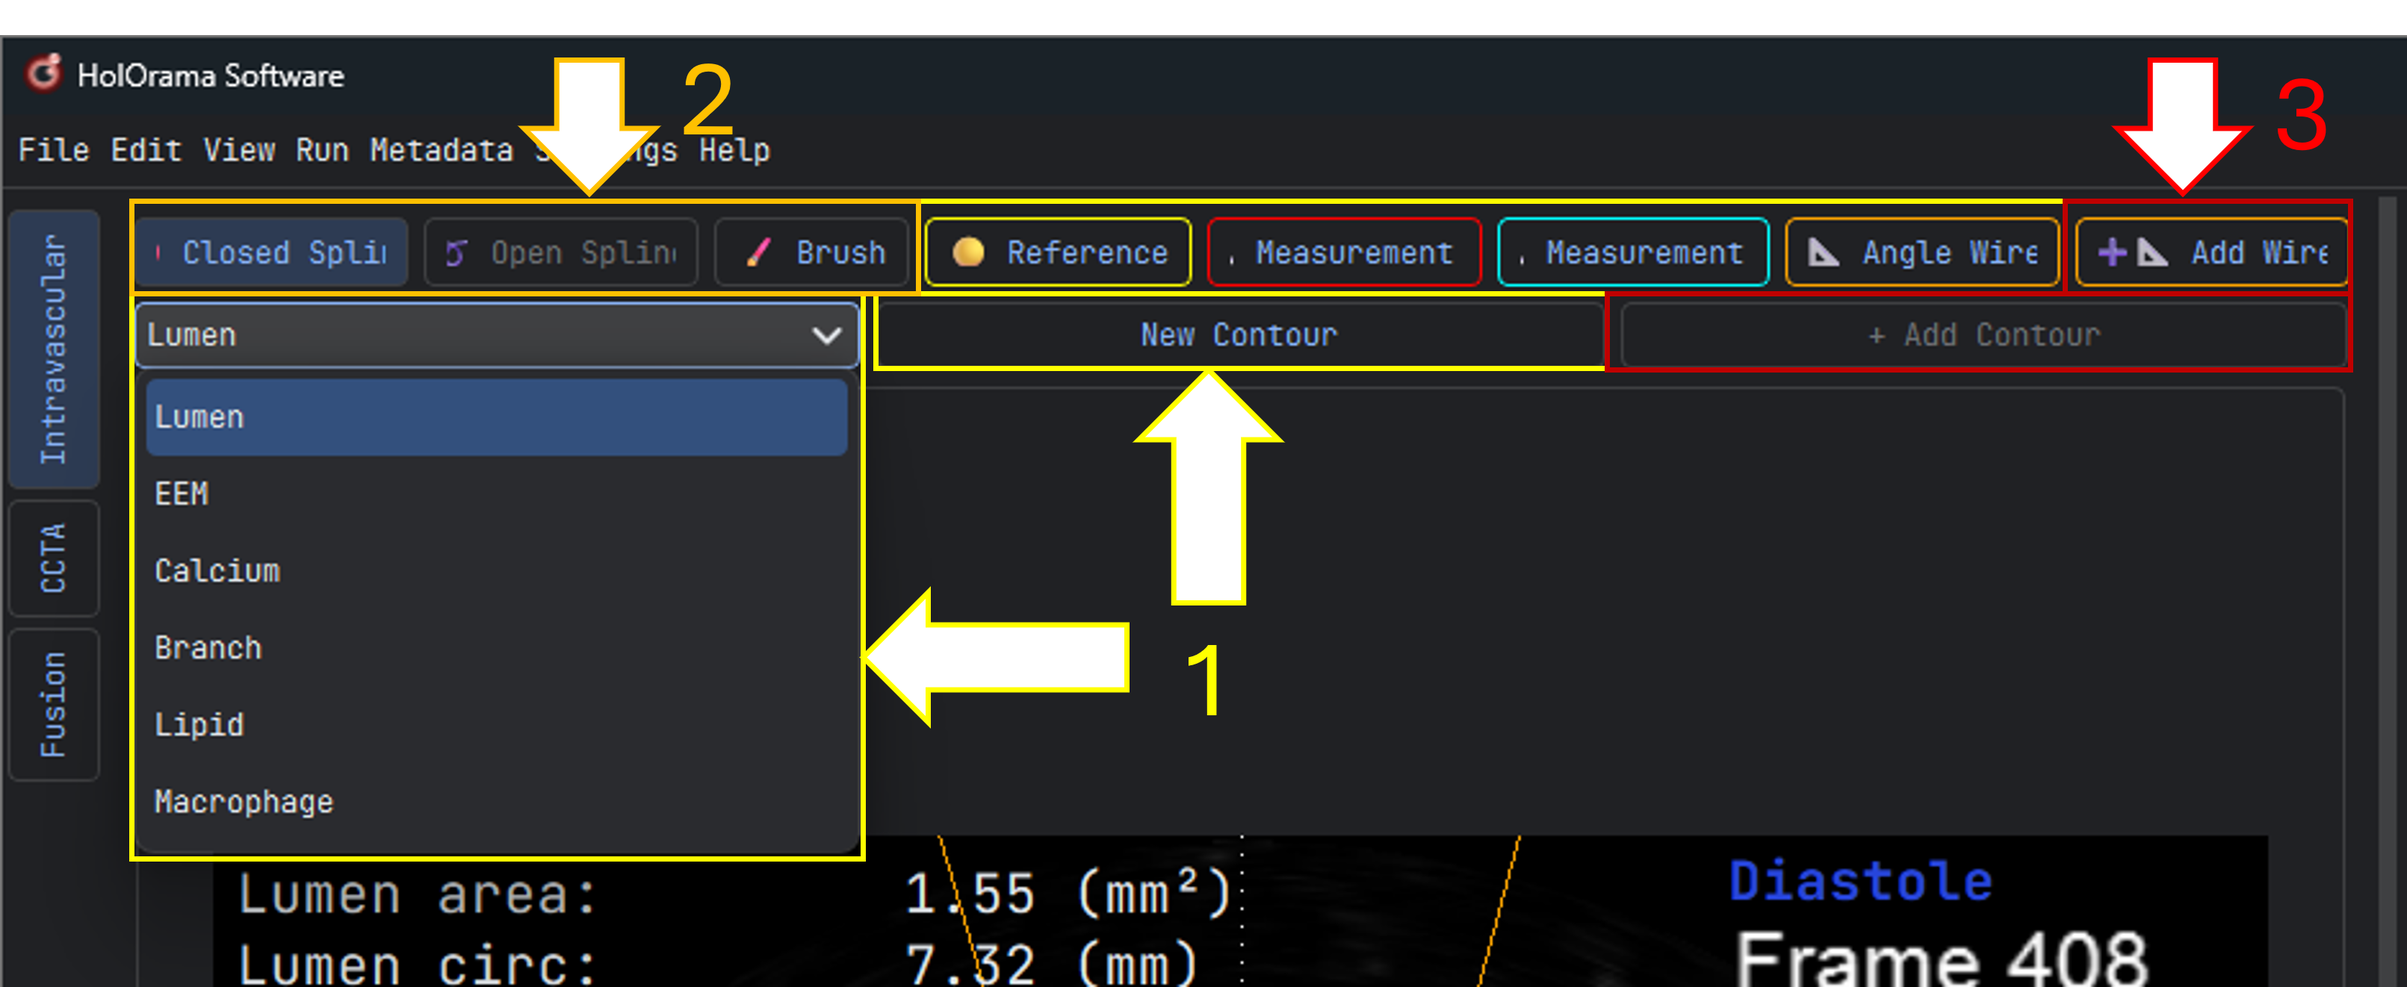
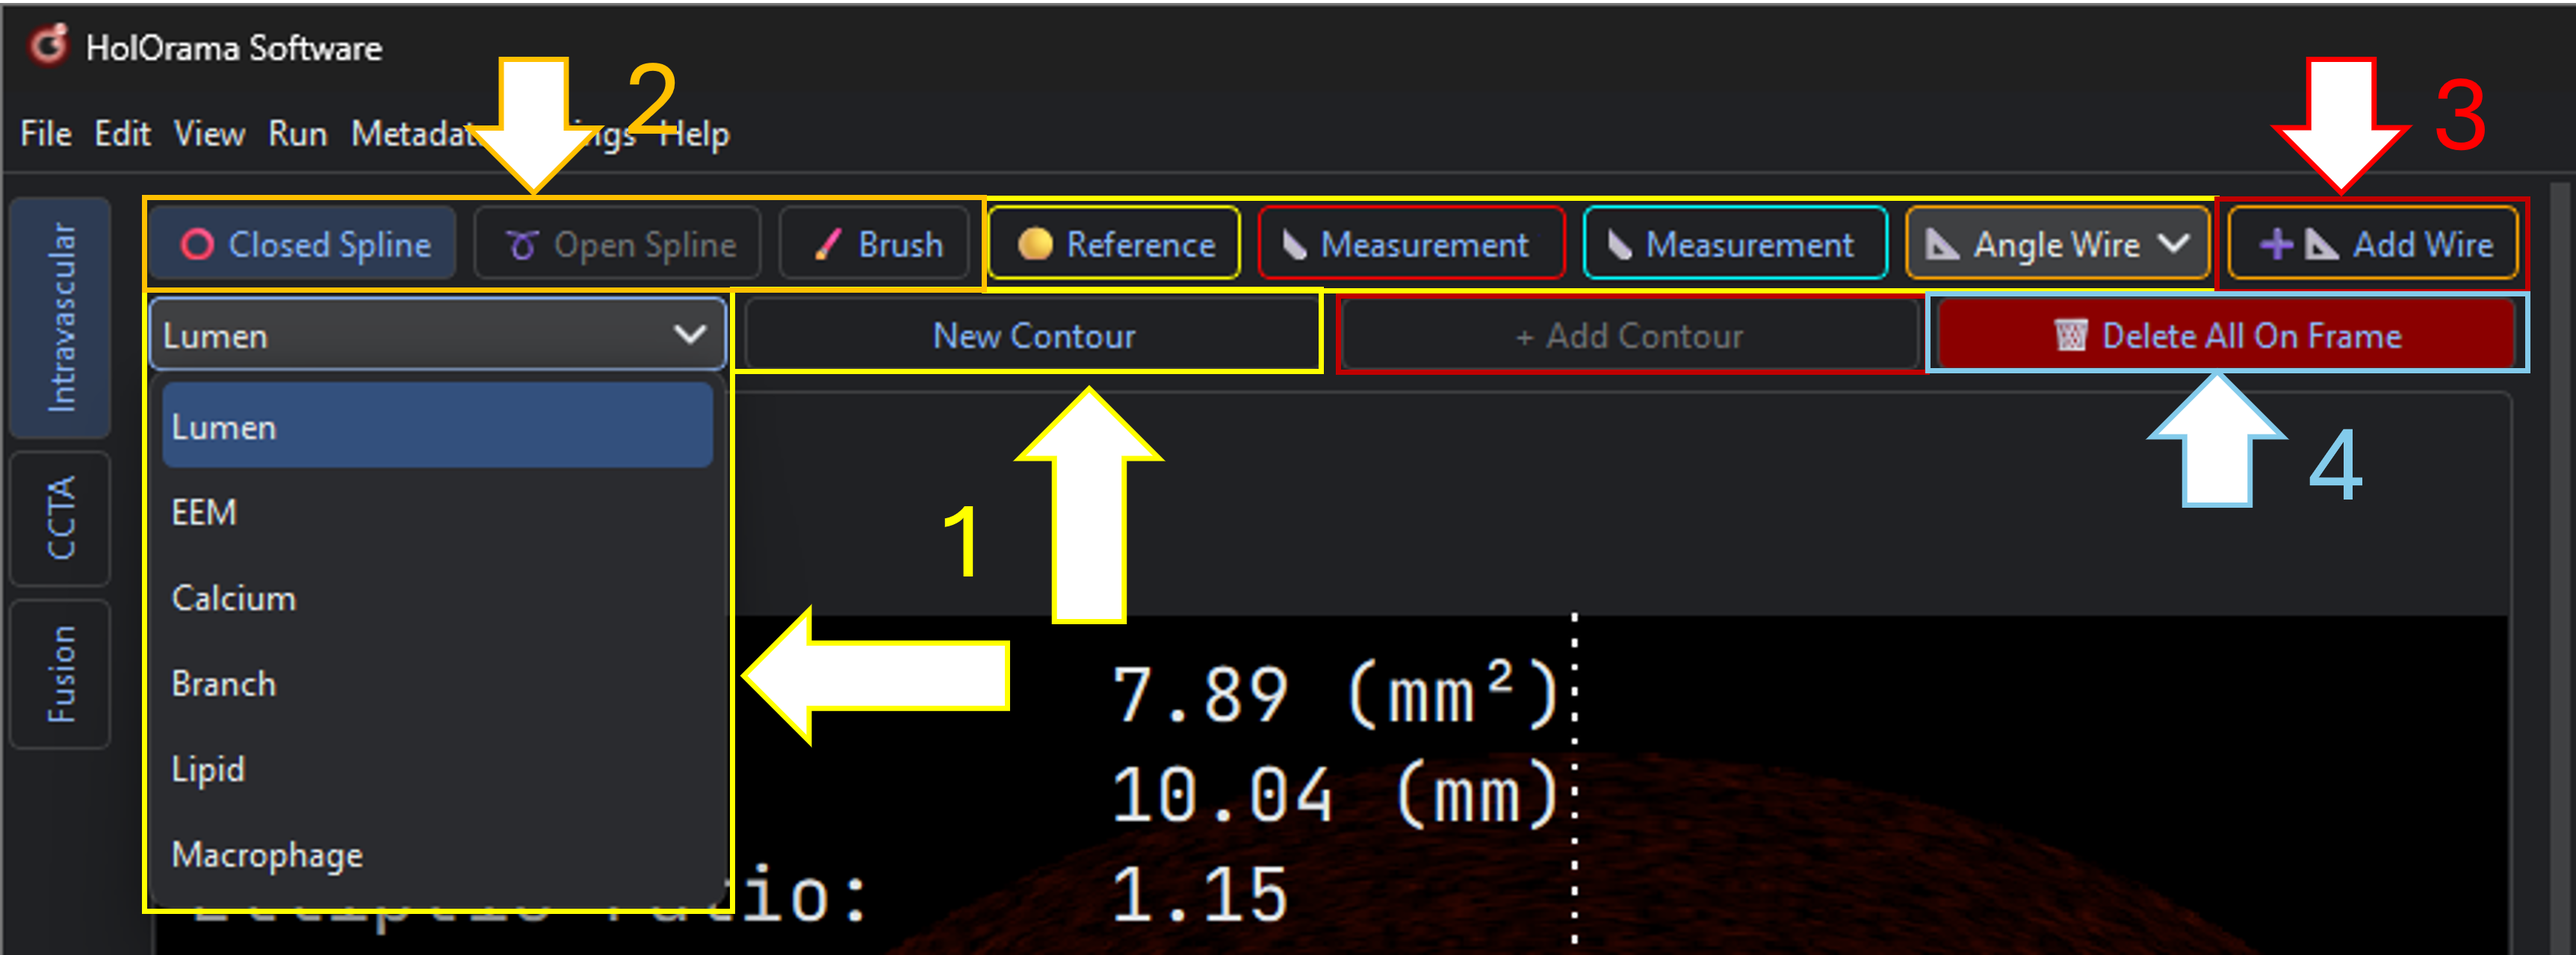
update documentation

diff --git a/docs/contents/modules/intravascular.rst b/docs/contents/modules/intravascular.rst
@@ -82,6 +82,21 @@ The first step should be to only analyze frames of interest. This can either be 
 tagging images in OCT or gating in IVUS; both matter because they let you export only the
 tagged / gated frames as nifti for training.
 
+.. note::
+
+  If you're analyzing an OCT pullback, and there is guiding catheter visible in the proximal
+  vessel, do classification of the catheter first in the following manner:
+
+  .. figure:: ../../media/classifying_guiding_catheter.png
+   :name: fig-guiding-catheter
+   :alt: Identification of guiding catheter
+   :align: center
+   :width: 450px
+
+   Find the first proximal frame, where no guiding catheter is visible, click ``Catheter Range``.
+   This will classify all frames to the right (proximal) as *Guiding Catheter* and additionally
+   block tagging.
+
 **IVUS.** Mark the current frame with the *Diastolic Frame* / *Systolic Frame* checkboxes,
 or let :doc:`gating` find them for you. Gating requires a bit more effort and is covered
 in detail there. Marked frames appear as lines in the longitudinal view (blue = diastole,
@@ -92,8 +107,7 @@ systole and diastole over a range.
 a fixed distance apart (in mm or in frames) within a frame range. The spacing is counted
 out from the **frame on screen**, in both directions — on frame 375 of 380 with a step of
 4 you get 375, 379 and 371, 367, … back down — so the frame being looked at is always one
-of the tagged ones. Rate each frame with the quality
-buttons (*Very Bad* … *Very Good*). The rating travels with the frame into the report.
+of the tagged ones. Rating each frame is a step of its own, covered below.
 A frame labelled **Guiding Catheter** shows the catheter rather than the vessel, so it
 never also carries a tag: labelling one (or a whole **Catheter Range**) drops its tag, and
 both *Tagged Frame* and **Tag Frames by Distance** skip it. Clearing the range makes those
@@ -106,7 +120,7 @@ If a region should be excluded from analysis, after running tagging / gating use
    :name: fig-tagging
    :alt: Overview Intravascular Module
    :align: center
-   :width: 900px
+   :width: 600px
 
    Tagging a pullback after loading a presegmented mask.
 
@@ -138,7 +152,51 @@ models as demonstrated in :ref:`fig-tagging`
    inference settings are in the ``segmentation`` section of ``config.yaml``. 
    The packaged Windows binary does not include inference.
 
-6. Draw contours
+6. Classify frame
+~~~~~~~~~~~~~~~~~
+
+*OCT only.* IVUS pullbacks carry no frame label; they mark diastole and systole instead
+(step 3).
+
+Every frame carries **exactly one** label, picked from the two rows above the schematic:
+the frame labels **Guiding Catheter**, **Unanalyzable** and **Unlabeled**, and the five
+**Frame Quality** ratings *Very Bad*, *Bad*, *Ok*, *Good* and *Very Good*. All eight are
+one choice, so picking any of them replaces whatever the frame carried before — a rating
+clears a flag, a flag clears a rating. The buttons always show the label of the frame on
+screen, and every frame starts out **Unlabeled**.
+
+.. list-table::
+   :header-rows: 1
+   :widths: 30 70
+
+   * - Label
+     - What it says about the frame
+   * - *Very Bad* … *Very Good*
+     - You looked at it, and this is how well its borders can be read. Rating a frame is
+       what records that it was reviewed.
+   * - **Unanalyzable**
+     - You looked at it and it cannot be contoured at all. Where only *part* of the border
+       is uninterpretable, contour it and mark that part as uncertain instead (step 8).
+   * - **Guiding Catheter**
+     - The guiding catheter fills the frame, so there is no vessel in it to analyze.
+   * - **Unlabeled**
+     - Not looked at yet. Every frame starts here, and **Unlabeled** is also how a frame is
+       put back to it.
+
+.. note::
+   Label the guiding-catheter stretch with **Catheter Range** rather than frame by frame:
+   one click labels the frame on screen and every frame proximal to it (see
+   :ref:`fig-guiding-catheter`). **Clear Catheter Range** puts every frame carrying the
+   label back to **Unlabeled** and is greyed out while none does. A guiding-catheter frame
+   cannot be tagged — its *Tagged Frame* checkbox is greyed out and an existing tag is
+   dropped — and the vessel schematic veils the whole stretch in grey.
+
+The label describes the frame rather than the drawing on it: it is saved in
+``<case>_contours_ho_<version>.json`` and comes back when the case is reopened, and
+**Delete All On Frame** leaves it untouched. It is not one of the report's columns; the
+report holds what was measured on each frame.
+
+7. Draw contours
 ~~~~~~~~~~~~~~~~
 
 .. important::
@@ -207,7 +265,9 @@ then click in the image to place points.
 
 .. note::
   To return to a neutral state (no tool, Lumen as active contour), 
-  press :kbd:`Esc`.
+  press :kbd:`Esc`. To delete the currently clicked contour (also works for a single contour,
+  when there are several of the same type), press :kbd:`Delete`. To delete all it's faster to
+  click the Button ``🗑 Delete All On Frame``.
 
 Drawing rules:
 
@@ -251,7 +311,7 @@ See this example for applying these tools to effectively draw new contours:
 
 .. _iv-uncertainty:
 
-7. Express uncertainty
+8. Express uncertainty
 ~~~~~~~~~~~~~~~~~~~~~~
 
 Borders are not equally visible all the way around a vessel. Rather than forcing you to
@@ -296,7 +356,22 @@ Colours of the start/end markers are configurable (``color_start_point``,
    Be consistent about *why* you mark a region uncertain across a study; that consistency
    is what a model can actually learn from.
 
-8. Measurements and markers
+Blood artefacts are common in OCT images, particularly in the ostial regions. In the most severe
+cases, label the frames as *Unanalyzable*. However, if a blood artefact only impairs image quality
+and you want the masks to indicate that it caused the impairment, add one or more angles showing
+where the blood impairs the visibility of structures, as in the example below:
+
+.. figure:: ../../media/blood_artefact.png
+   :name: fig-blood-artefact
+   :alt: Blood artefact
+   :align: center
+   :width: 900px
+
+   Left: Raw image without contours. Right: Contours with open start and end points
+   on the EEM contour, an angle indicating the blood-related impairment in red, and the classification
+   *Ok* for the image.
+
+9. Measurements and markers
 ~~~~~~~~~~~~~~~~~~~~~~~~~~~
 
 - 📏 **Measurement 1** (:kbd:`1`) and **Measurement 2** (:kbd:`2`) each measure a distance
@@ -332,8 +407,8 @@ coronary artery anomalies for fusion with CCTA. Also the reference points should
 set either at the ostium or at bifurcation points. A detailed description of how the input format
 for the fusion module is expected is given in :doc:`fusion`.
 
-9. Review in the longitudinal view
-~~~~~~~~~~~~~~~~~~~~~~~~~~~~~~~~~~
+10. Review in the longitudinal view
+~~~~~~~~~~~~~~~~~~~~~~~~~~~~~~~~~~~
 
 The longitudinal view under the gating plot shows the pullback cut along its axis,
 overlaid with the lumen-area dots, the diastolic/systolic marker lines and the breathing
@@ -348,7 +423,7 @@ EEM diameter, calcification distribution on top and lipid distribution on the bo
 This is a quick way to spot regions of interest, which can then be inspected in the 
 image view and annotated with the contouring tools.
 
-10. Export
+11. Export
 ~~~~~~~~~~
 
 .. list-table::
@@ -363,7 +438,7 @@ image view and annotated with the contouring tools.
    * - **File → Save Report** (:kbd:`Ctrl+R`)
      - Per-frame metrics report, plus the contour CSVs when ``report.save_as_csv`` is on.
        **These CSVs are the Fusion module's intravascular input.**
-   * - **File → Save NIfTis → Contoured / Gated / All Frames**
+   * - **File → Save NIfTis → Contoured / Tagged Gated / All Frames**
      - Image and mask NIfTI files for the chosen frame selection.
    * - **File → Save Gated Images**
      - The gated (or tagged) frames as numpy arrays (.npy).
@@ -376,9 +451,15 @@ See :doc:`../outputs` for the exact file names and directory layout.
 
 The NIfTI export is the intended bridge to model training: masks are rasterised from your
 contours using a fixed layering ruleset, so overlapping structures resolve the same way
-every time. Choose **All Frames** for a dense dataset, or **Contoured Frames** to export
-only what you actually annotated. ``save.save_2d`` and ``save.save_3d`` control whether you
-get one file per frame, a single 3D volume, or both.
+every time. Choose **All Frames** for a dense dataset, **Contoured Frames** to export
+any frames with contours or **Tagged/Gated Frames** to export the tagged/gated frames.
+``save.save_2d`` and ``save.save_3d`` control whether you get one file per frame, 
+a single 3D volume, or both.
+
+.. important::
+
+  It is recommended to use the Save NIfTI for tagged/gated frames, to not accidentely
+  export any non-visited and corrected frames.
 
 Example Video
 -------------
